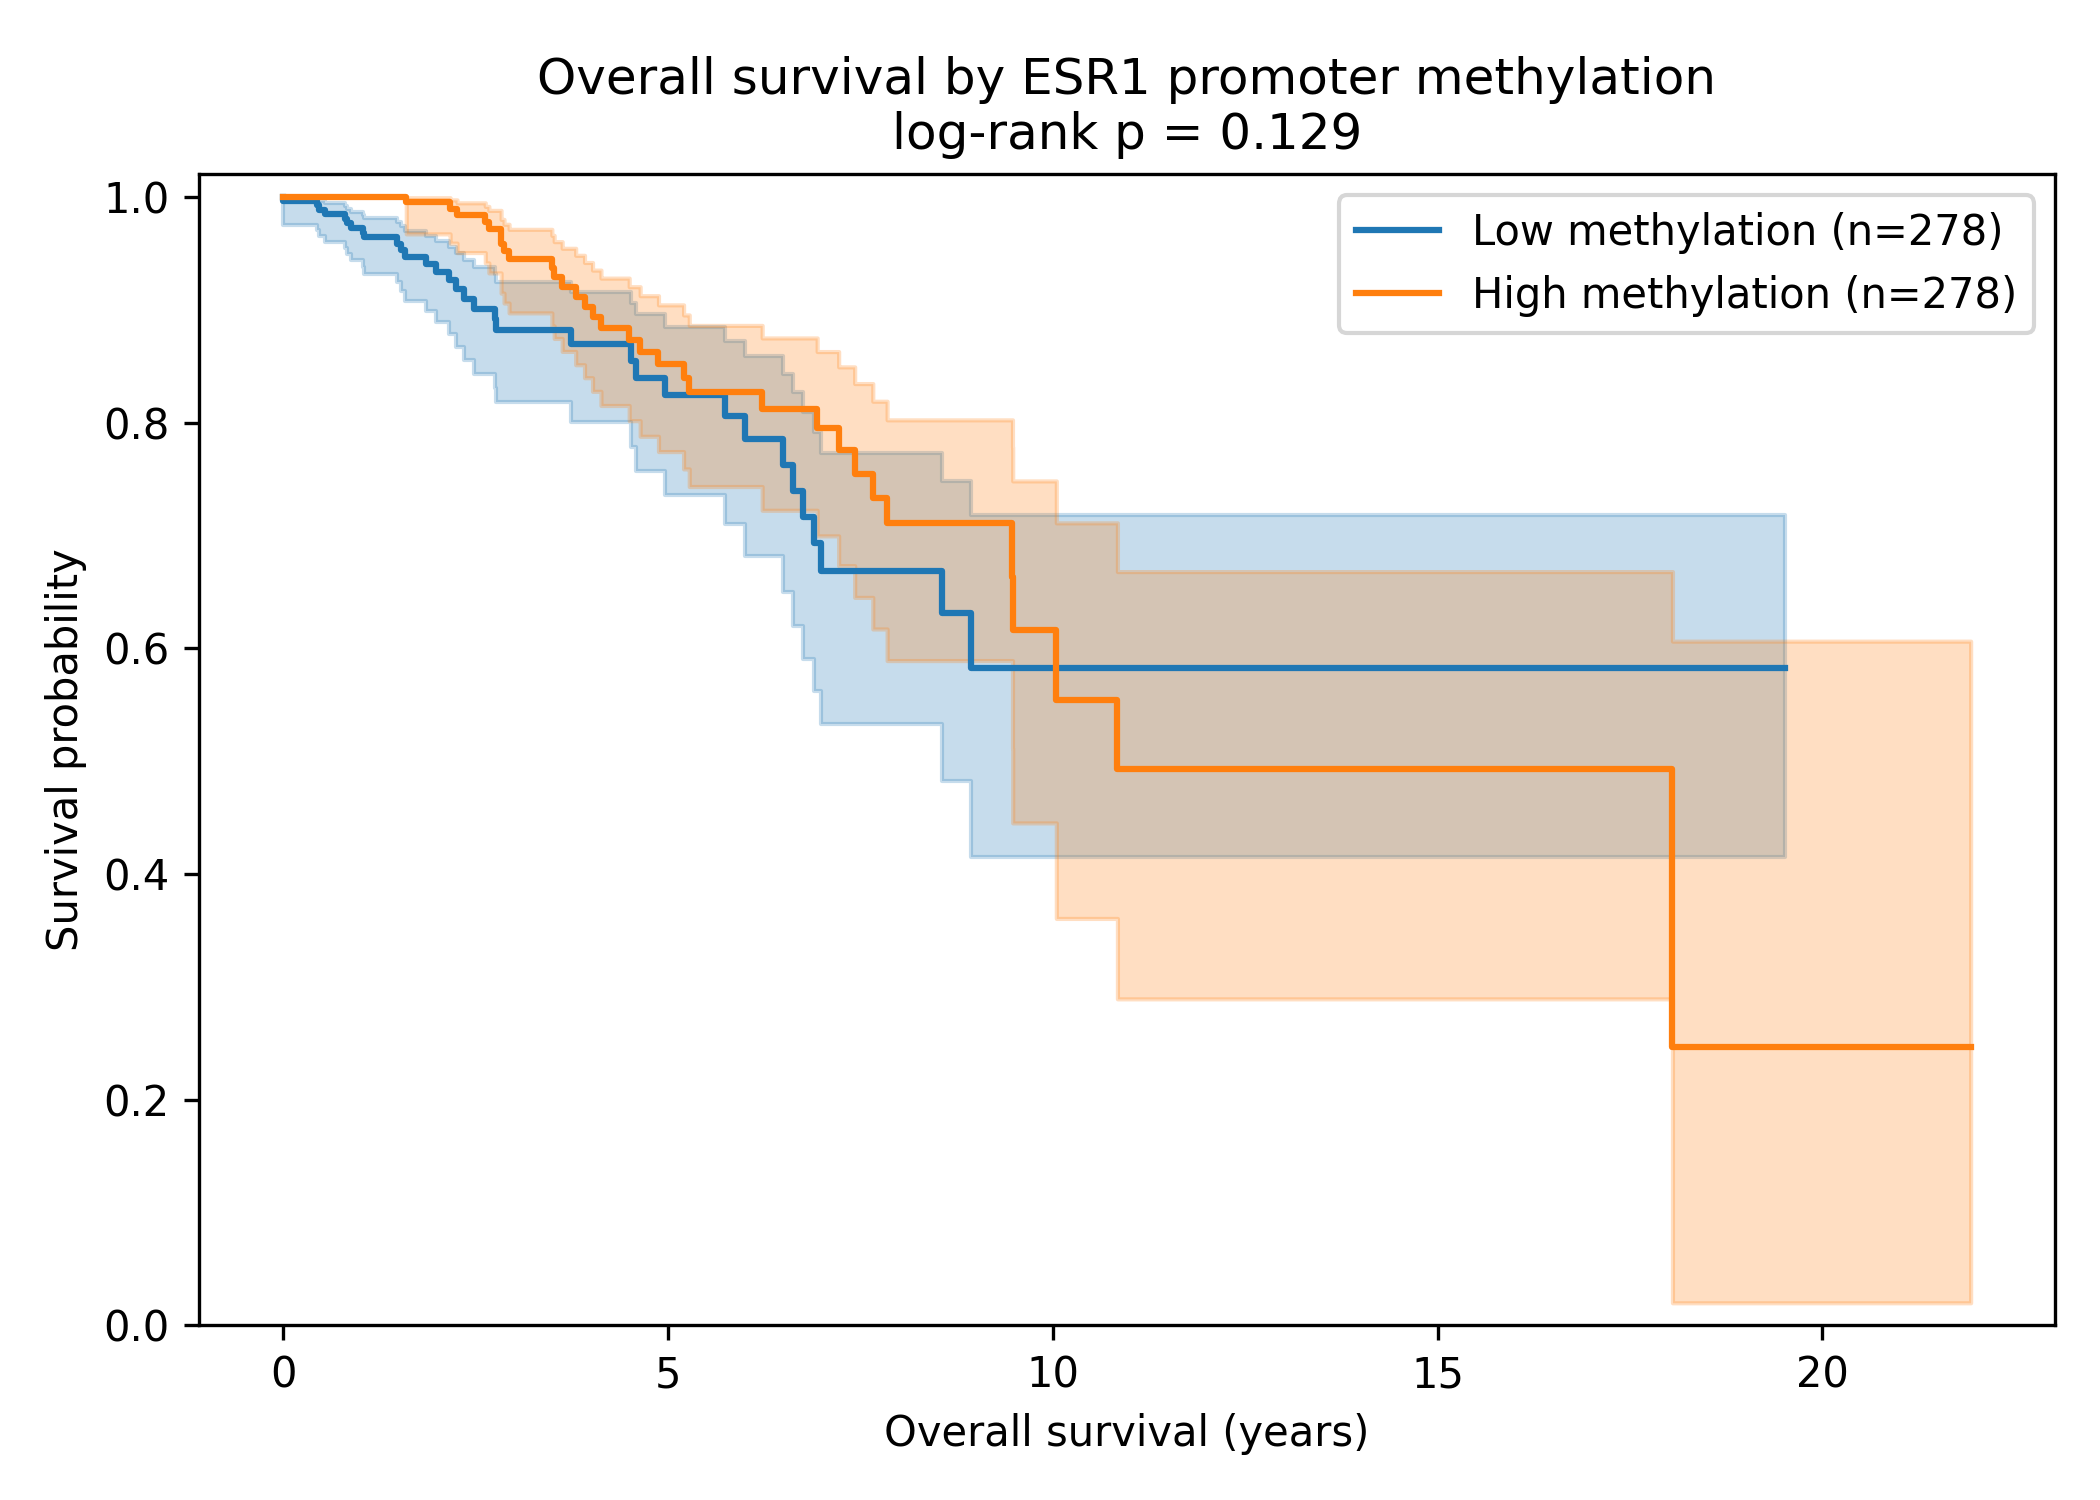
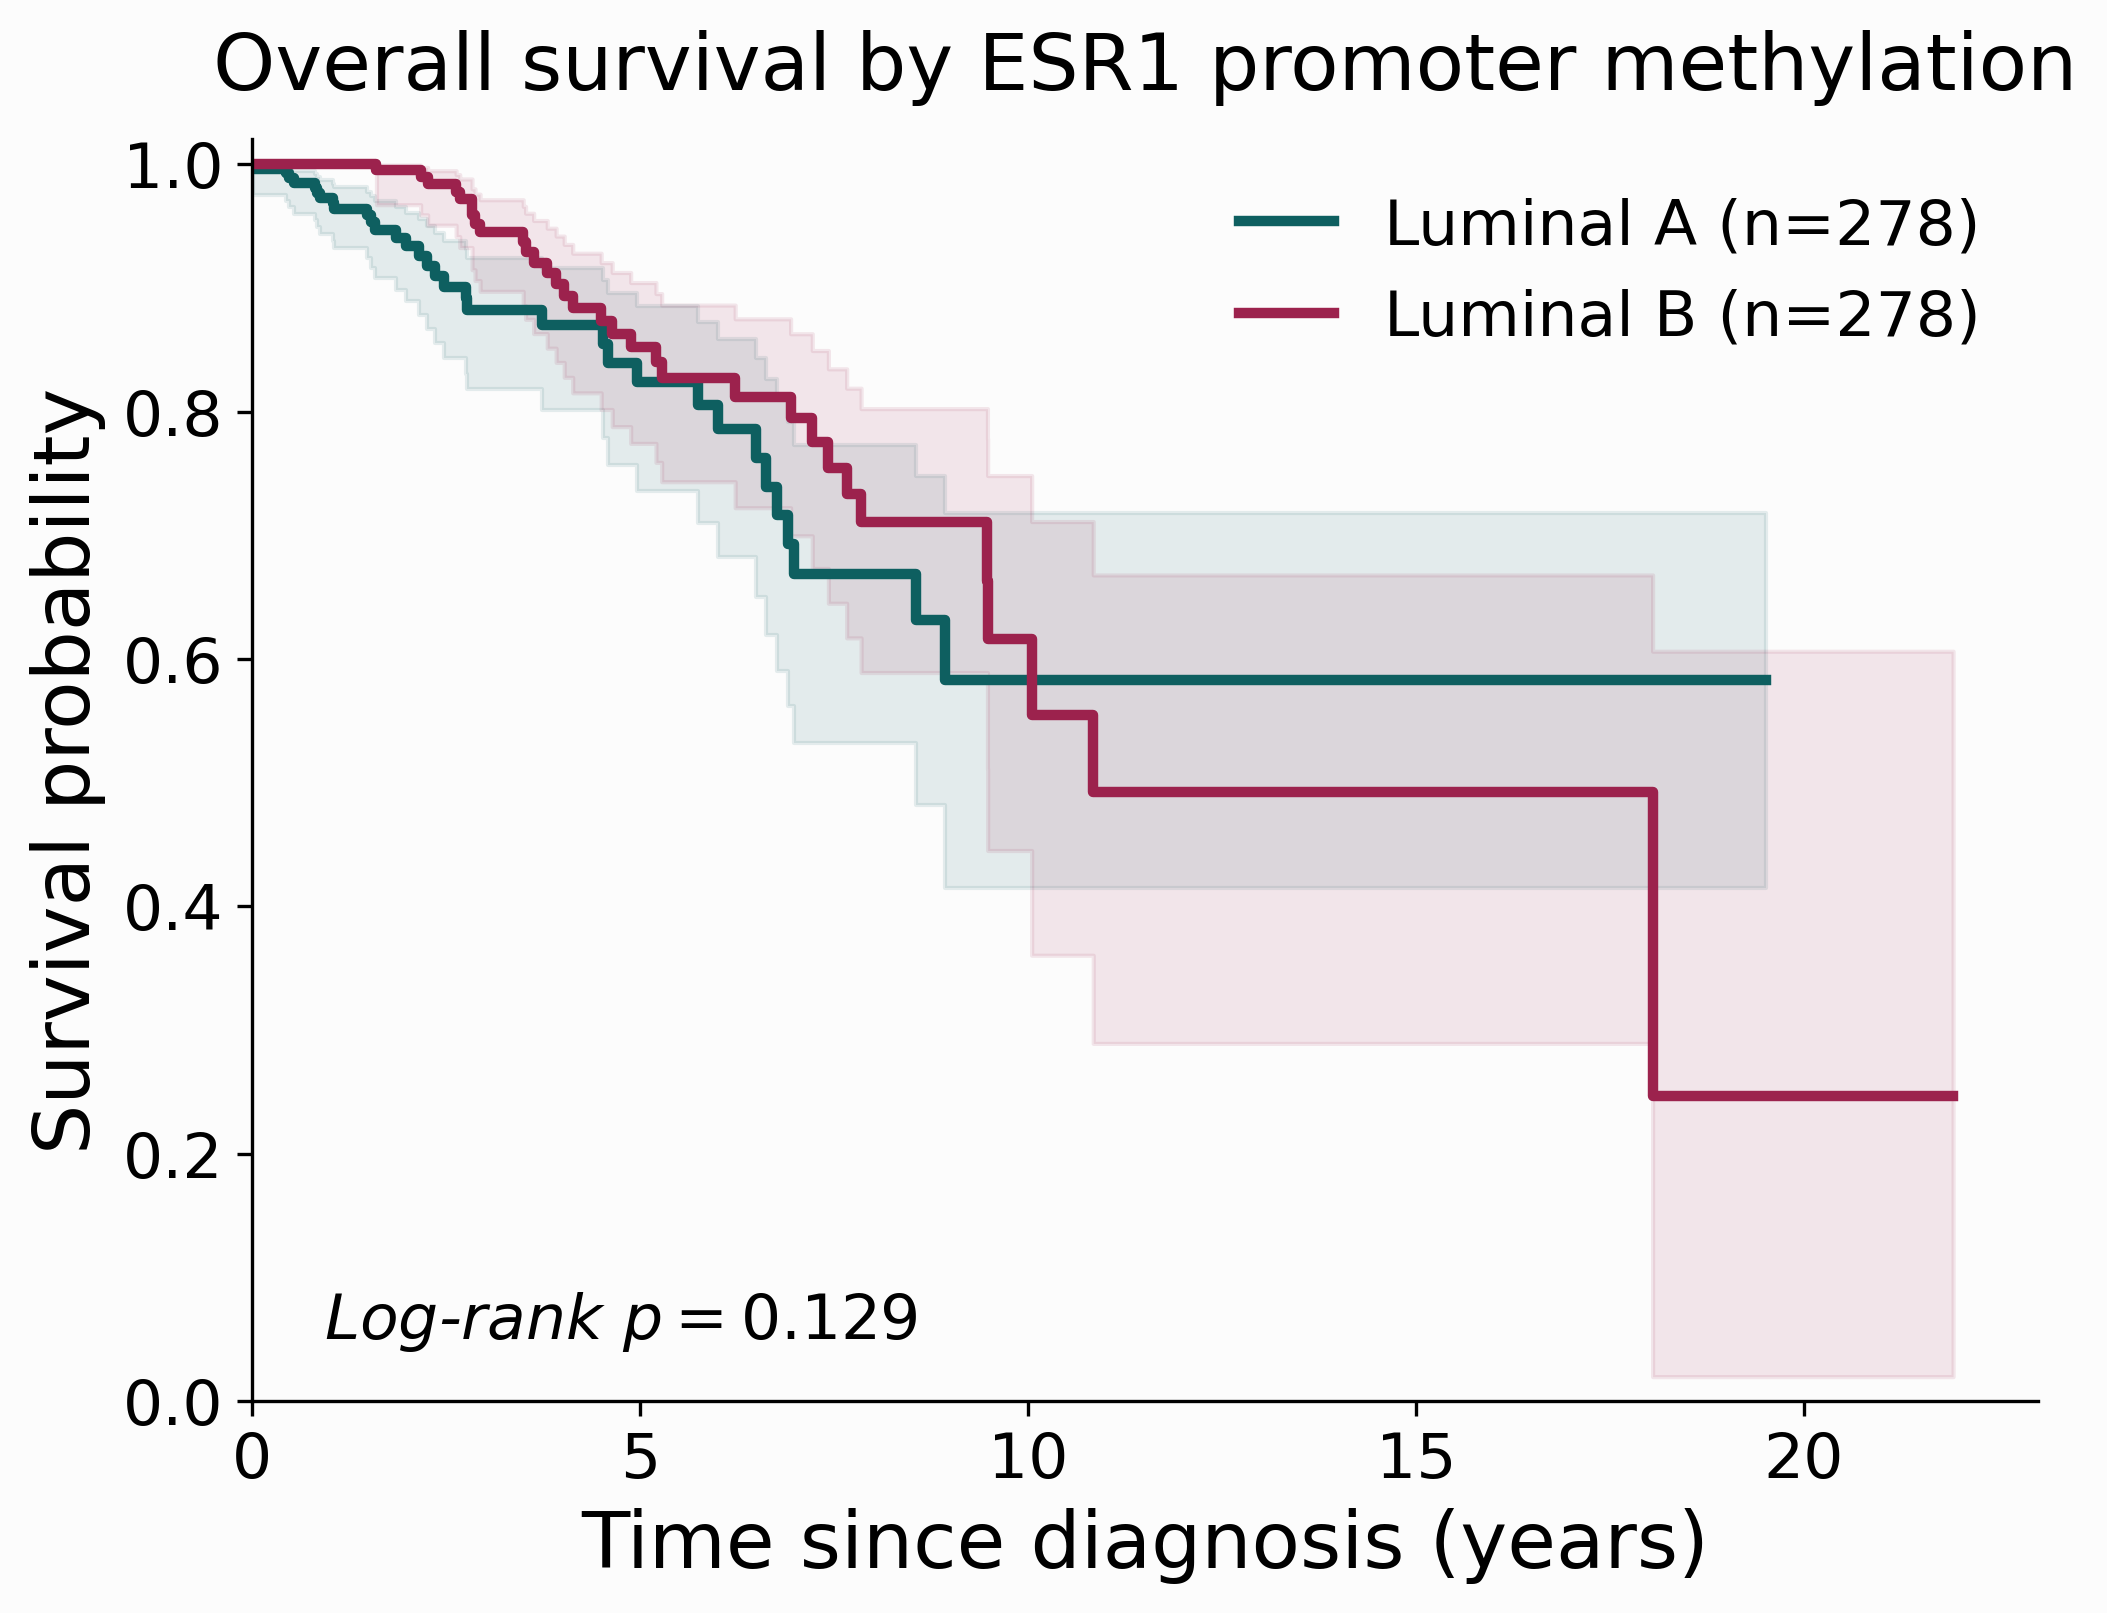
file 10 plot updates

Changed region(s): [[0.0, 0.0, 0.9905, 0.9813], [0.1548, 0.7973, 0.4333, 0.828]]

diff --git a/scripts/10_Survival_Curves.py b/scripts/10_Survival_Curves.py
@@ -30,25 +30,104 @@ surv["time_years"] = surv["time"] / 365.25
 
 
 def two_group_km(df, group_col, title, fname, order):
+    TEXT_SIZE = 19
     """KM curves for two groups + log-rank test; returns a result row."""
+    BLUE = "#0e5f60"
+    PINK = "#9c224d"
+    BG = "#fcfcfc"
+    
     g0, g1 = order
     a, b = df[df[group_col] == g0], df[df[group_col] == g1]
     lr = logrank_test(a["time_years"], b["time_years"],
                       event_observed_A=a["event"], event_observed_B=b["event"])
+    
+    fig, ax = plt.subplots(
+        figsize=(7, 5.5),
+        facecolor=BG
+    )
+    ax.set_facecolor(BG)
 
     kmf = KaplanMeierFitter()
-    plt.figure(figsize=(7, 5))
-    ax = plt.gca()
-    for g, sub in [(g0, a), (g1, b)]:
-        kmf.fit(sub["time_years"], sub["event"], label=f"{g} (n={len(sub)})")
-        kmf.plot_survival_function(ax=ax, ci_show=True)
-    ax.set_xlabel("Overall survival (years)")
-    ax.set_ylabel("Survival probability")
+
+    group_settings = [
+        (g0, a, "Luminal A", BLUE),
+        (g1, b, "Luminal B", PINK)
+    ]
+
+    group_settings = [
+        (g0, a, "Luminal A", BLUE),
+        (g1, b, "Luminal B", PINK)
+    ]
+
+    for group, sub, display_name, color in group_settings:
+        kmf.fit(
+            durations=sub["time_years"],
+            event_observed=sub["event"],
+            label=f"{display_name} (n={len(sub)})"
+        )
+
+        kmf.plot_survival_function(
+            ax=ax,
+            ci_show=True,
+            color=color,
+            linewidth=2.5,
+            show_censors=False,
+            ci_alpha=0.1
+        )
+
+    ax.set_title(
+        title,
+        fontsize=TEXT_SIZE,
+        pad=12
+    )
+
+    ax.set_xlabel(
+        "Time since diagnosis (years)",
+        fontsize=TEXT_SIZE
+    )
+
+    ax.set_ylabel(
+        "Survival probability",
+        fontsize=TEXT_SIZE
+    )
+
     ax.set_ylim(0, 1.02)
-    ax.set_title(f"{title}\nlog-rank p = {lr.p_value:.3g}")
+    ax.set_xlim(left=0)
+
+    # Log-rank p-value annotation
+    if lr.p_value < 0.0001:
+        p_text = r"Log-rank $p < 0.0001$"
+    else:
+        p_text = rf"Log-rank $p = {lr.p_value:.3g}$"
+
+    ax.text(
+        0.04,
+        0.05,
+        p_text,
+        transform=ax.transAxes,
+        fontsize=TEXT_SIZE*0.8,
+        style="italic"
+    )
+
+    ax.legend(
+        loc="upper right",
+        frameon=False,
+        fontsize=TEXT_SIZE*0.8,
+        handlelength=1.5
+    )
+
+    # Minimal styling
+    ax.spines["top"].set_visible(False)
+    ax.spines["right"].set_visible(False)
+
+    ax.tick_params(
+        axis="both",
+        labelsize=TEXT_SIZE*0.8
+    )
+
     plt.tight_layout()
-    plt.savefig(f"../results/figures/{fname}", dpi=300)
-    plt.close()
+    plt.savefig(f"../results/figures/{fname}", dpi=300, facecolor=BG, bbox_inches="tight")
+    plt.close(fig)
 
     return {"comparison": title, "group1": g0, "n1": len(a),
             "group2": g1, "n2": len(b),